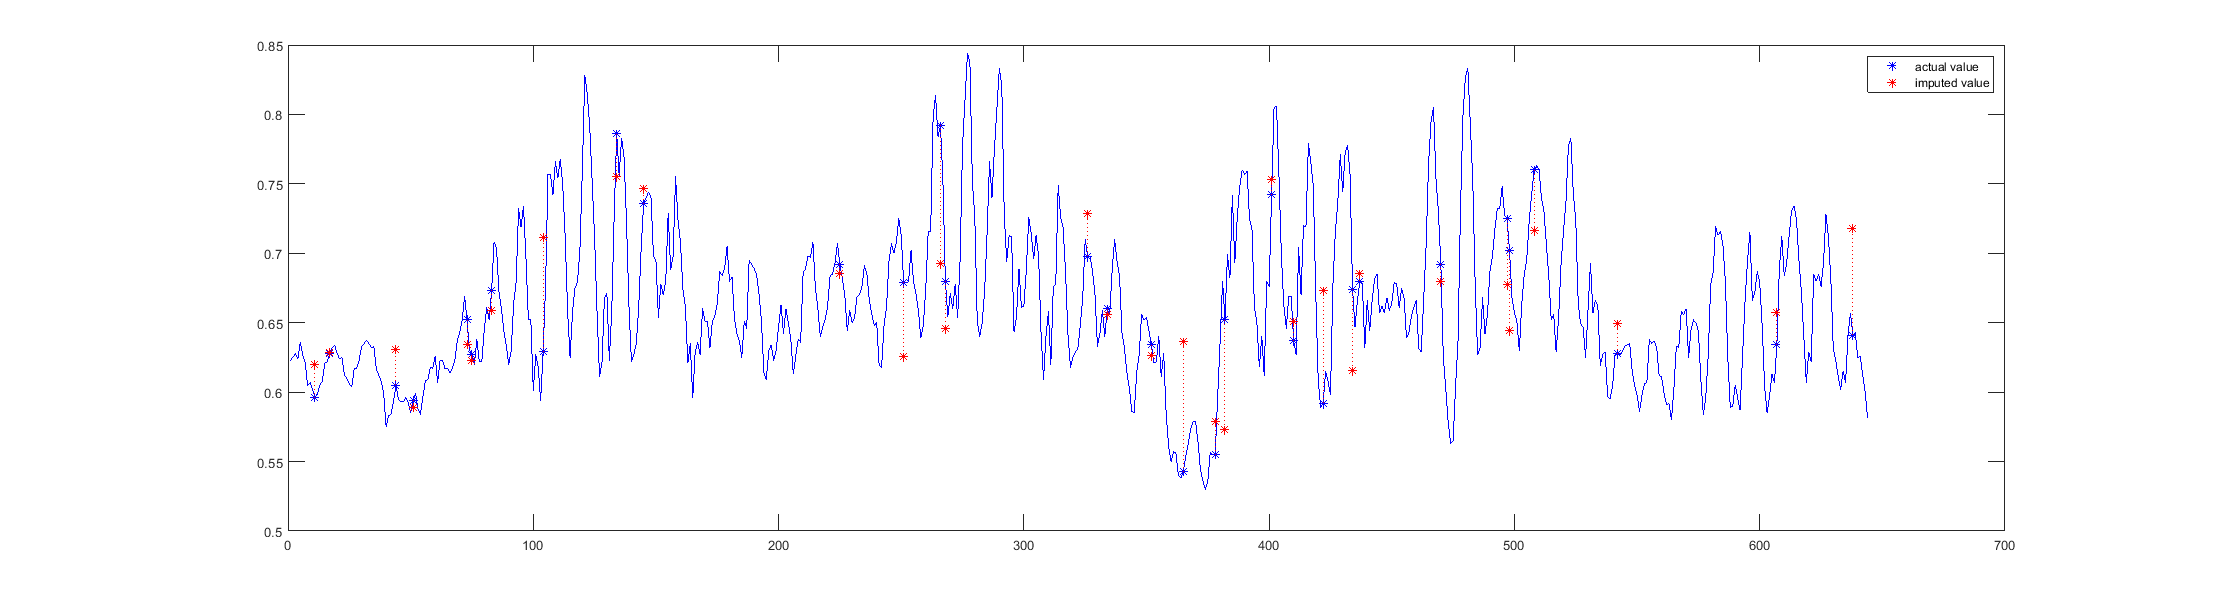
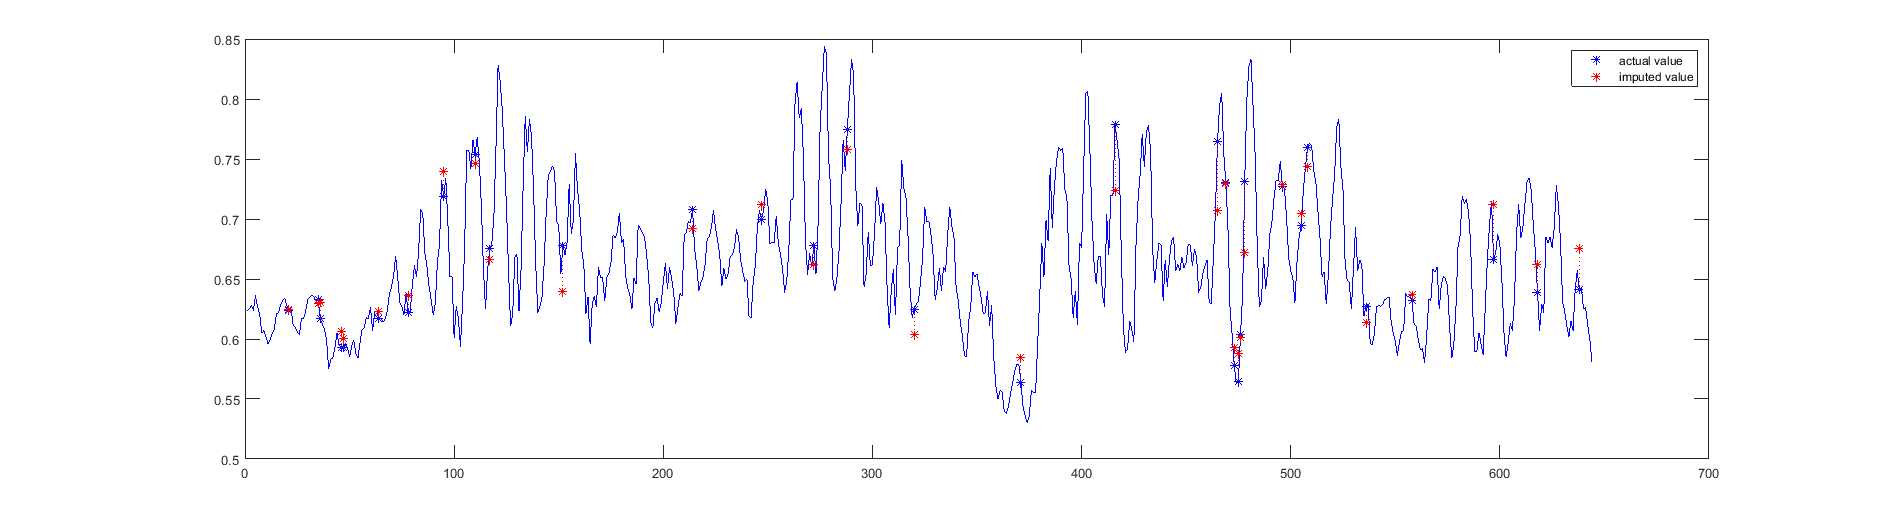
test imputation on more than one consecutive points removed

diff --git a/HR_Tools/tmp_AR_impute_test2.m b/HR_Tools/tmp_AR_impute_test2.m
@@ -8,43 +8,94 @@ r = fscanf(fileID, '%f');
 
 % given AR(10) model [constant, a1, ..., a10]
 AR_coef = [0.0523    1.0043   -0.0452   -0.1302    0.0540   -0.0672   -0.1204    0.0322    0.0645    0.0183    0.1107];
-
 % set parameters
-miss_percent = 0.05;
-num_long_r = round(miss_percent*length(r));
-num_long_r = 2;
-% simulate_signal_with_miss_values(r, length(AR_coef)-1, num_long_r);
+miss_percent = 0.01;
+num_runs = round(miss_percent*length(r));
+num_runs = 2;
+num_sigma = 4;  % limit for outlier detection
 
-new_r = generate_long_r(r, length(AR_coef)-1, num_long_r);
+% simulate missing value
+r_miss = generate_miss_value_signal(r, length(AR_coef)-1, num_runs);
+%figure, plot(new_r, 'b');
 
+i_outliers = find_outliers(r_miss, num_sigma);    
 
+[r_imputed, i_outliers] = impute(r_miss, i_outliers, AR_coef);
 
-% generate long intervals by removing 1, 2, or 3 consecutive data points, 
-function new_r = generate_long_r(r, AR_order, num_runs)
+% recursively impute the first outlier, so that later outliers can
+% use previously imputed values if the indices are close
+function [r_new, i_outliers] = impute(r, i_outliers, AR_coef)
+    AR_order = length(AR_coef)-1; 
+    while ~isempty(i_outliers)
+        fprintf('--------------------------------\n');
+        % remove the first outlier in i_outliers (smallest index)
+        i_start = i_outliers(1)
+        ri_long = r(i_start)
+        local_avg = (r(i_start-1) + r(i_start+1))/2
+        num_points = round(r(i_start)/local_avg)
+        ri_values = zeros(1, num_points);
+        for k=1:num_points
+            i = i_start+k-1;
+            r_original = r(i-AR_order : i_start-1).';
+            if k==1
+                % use only original values to estimate the first point
+                r_prev = r_original;
+            else
+                % use newly estimated values for later points
+                r_prev = [r_original, ri_values(1:k-1)];
+            end
+            r_prev = fliplr(r_prev);
+            ri_values(k) = AR_coef(2:end)*r_prev.' + AR_coef(1);
+            % maintain the sum of total values
+            if k == num_points
+                ri_values(k) = ri_long - sum(ri_values(1:k-1));
+            end
+        end 
+        ri_values
+        % remove the outlier, and insert the imputed values
+        r_new = vertcat(r(1:i_start-1), ri_values.', r(i_start+1:end));
+        % for next iteration
+        r = r_new;
+        % remove the first value from i_outliers
+        i_outliers(1) = [];
+        i_outliers = i_outliers + num_points-1;
+    end
+end
+
+function i_outliers = find_outliers(r, num_sigma)
+    [r_var,r_mu,~] = robustcov(r);
+    r_std = sqrt(r_var);
+    i_outliers = find((r - r_mu) > num_sigma*r_std);
+end
+
+% generate long intervals by removing 1, 2, or 3 consecutive data points
+function r_new = generate_miss_value_signal(r, AR_order, num_runs)
     while num_runs > 0
         fprintf('--------------------------------\n');
         fprintf('num_runs = %d\n', num_runs);
-
-        % rng(0);
         % remove num_point consecutive data points, could be 1, 2, or 3 points
-        num_points = randsample(3, 1)
+        num_points = randsample(3, 1);
         fprintf('remove %d consecutive data points\n', num_points);
         % the starting idx to remove data points
-        start_idx = randi([AR_order+1, length(r)-(num_points-1)]);
+        i_start = randi([AR_order+1, length(r)-(num_points-1)]);
         % the idx that adds the values of previous num_points and becomes the long r
-        long_r_idx = start_idx + num_points;
-        remove_indices = [];
+        i_long = i_start + num_points;
+        i_remove = zeros(1, num_points);
+        fprintf('before r(i_long) = %f \n', r(i_long));
         for i=1:num_points
-            r(long_r_idx) = r(long_r_idx) + r(start_idx + i-1);
-            remove_indices = [remove_indices, start_idx + i-1];
+            disp(r(i_start + i-1));
+            r(i_long) = r(i_long) + r(i_start + i-1);
+            i_remove(i) = i_start + i-1;
         end
-        disp(remove_indices);
-        
-        new_r = r;
-        new_r(remove_indices) = []; % remove elements from r
-        
-        r = new_r;
+        disp(i_remove);
+        fprintf('after r(i_long) = %f \n', r(i_long));
+        % remove elements from r
+        r_new = r;
+        r_new(i_remove) = []; 
+        % for next iteration
+        r = r_new;
         num_runs = num_runs - 1;
     end
 end
+
 

diff --git a/HR_Tools/tmp_AR_impute_test1.m b/HR_Tools/tmp_AR_impute_test1.m
@@ -11,17 +11,17 @@ AR_coef = [0.0523    1.0043   -0.0452   -0.1302    0.0540   -0.0672   -0.1204   
 
 % set parameters
 miss_percent = 0.05;
-repeat = 1;
-err_metric = 'MAE';
+repeat = 2;
+err_metric = 'RMSE';
 
 % prediction/imputation error computed for repeated samples
 errs = zeros(1, length(repeat));
 for j=1:repeat
     miss_num = round(miss_percent*length(r));
-    miss_indices = random_miss(length(r), length(AR_coef)-1, miss_num);
-    r_hat = impute(r, miss_indices, AR_coef);
-    % plot_prediction(miss_indices, r_hat, r);
-    err = get_prediction_error(r(miss_indices), r_hat, err_metric);
+    i_miss = random_miss(length(r), length(AR_coef)-1, miss_num);
+    r_hat = impute(r, i_miss, AR_coef);
+    plot_prediction(i_miss, r_hat, r);
+    err = get_prediction_error(r(i_miss), r_hat, err_metric);
     errs(j) = err;
 end
 figure, histogram(errs);
@@ -45,15 +45,15 @@ function err = get_prediction_error(r_actual, r_hat, metric)
 end
 
 
-function r_hat = impute(r, miss_indices, AR_coef)
+function r_hat = impute(r, i_miss, AR_coef)
     % rng(0);
-    r_hat = zeros(1, length(miss_indices));
-    for i=1:length(miss_indices)
-        idx = miss_indices(i);
+    r_hat = zeros(1, length(i_miss));
+    for i=1:length(i_miss)
+        idx = i_miss(i);
         AR_order = length(AR_coef)-1;
         if idx > AR_order
             r_prev = r(idx-AR_order:idx-1);
-            r_prev = fliplr(r_prev);
+            r_prev = flipud(r_prev); % flip column vector upside down
             r_hat(i) = AR_coef(2:end)*r_prev + AR_coef(1);
         else
             r_hat(i) = 0;
@@ -61,20 +61,20 @@ function r_hat = impute(r, miss_indices, AR_coef)
     end
 end
 
-function miss_indices = random_miss(signal_length, AR_order, miss_num)
+function i_miss = random_miss(signal_length, AR_order, miss_num)
     % sample from indices larger than AR_order
-    miss_indices = randi([AR_order+1, signal_length], [1, miss_num]);
-    miss_indices = sort(miss_indices);
+    i_miss = randi([AR_order+1, signal_length], [1, miss_num]);
+    i_miss = sort(i_miss);
 end
 
-function plot_prediction(miss_indices, r_hat, r)
+function plot_prediction(i_miss, r_hat, r)
     figure, plot(r, 'b');
     hold on;
-    p1 = plot(miss_indices, r(miss_indices), 'b*');
-    p2 = plot(miss_indices, r_hat, 'r*');
+    p1 = plot(i_miss, r(i_miss), 'b*');
+    p2 = plot(i_miss, r_hat, 'r*');
     
-    for i=1:length(miss_indices)
-        idx = miss_indices(i);
+    for i=1:length(i_miss)
+        idx = i_miss(i);
         % draw line between points (idx, 0.5) and (idx, r(idx))
         % chose 0.5 as the lower range of r 
         % plot([idx idx], [0.5 r(idx)], 'b:');

diff --git a/HR_Tools/tmp_AR.m b/HR_Tools/tmp_AR.m
@@ -38,7 +38,7 @@ grid on;
 % prediction (rhat) using fitted AR model 
 for i=k+1:n
     ri = r(i-k:i-1);
-    ri = fliplr(ri); % flip array left to right
+    ri = flipud(ri); % flip column vector upside down
     rhat(i) = A*ri + c;
 end
 rhat=rhat';
